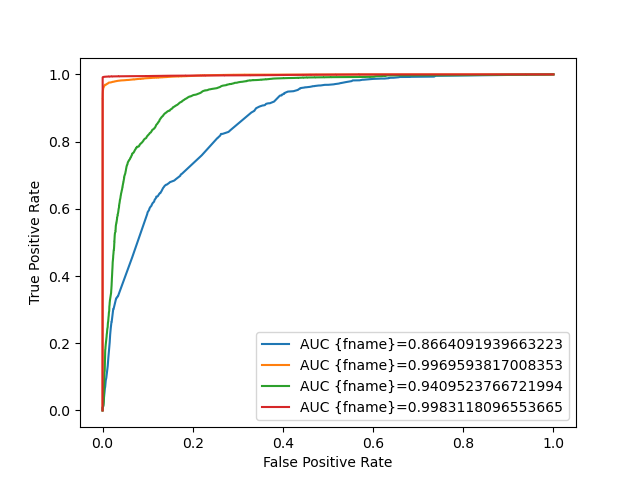
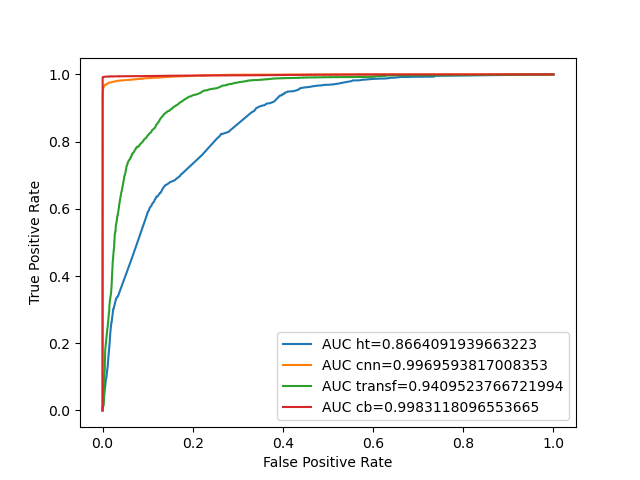
plot label interpolation fix

diff --git a/tests/test_models.py b/tests/test_models.py
@@ -33,7 +33,7 @@ def plt_roc_curve_open(y_test, y_pred, score, fname):
     fpr, tpr, _ = roc_curve(y_test,  y_pred)
 
     #create ROC curve
-    plt.plot(fpr,tpr,label="AUC {fname}="+str(score))
+    plt.plot(fpr,tpr,label=f"AUC {fname}="+str(score))
     plt.ylabel('True Positive Rate')
     plt.xlabel('False Positive Rate')
     plt.legend(loc=4)
